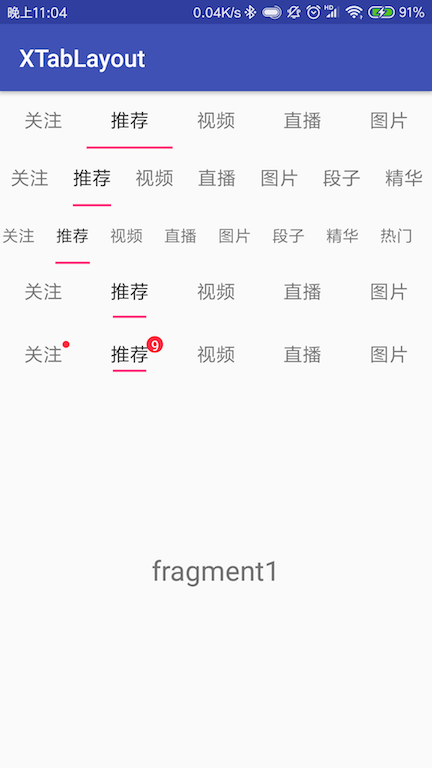
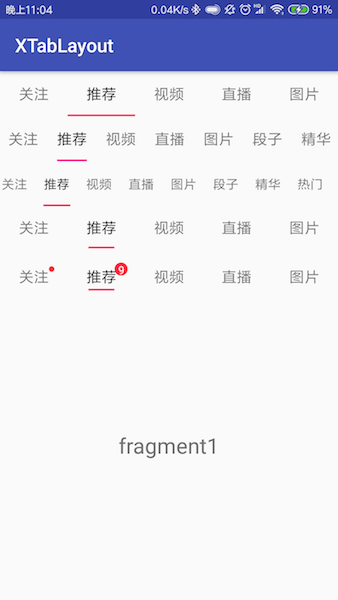
fix:调整README 图片大小

diff --git a/README.md b/README.md
@@ -10,7 +10,7 @@
 能够自定义TabLayout宽度的效果图：
 
 
-![](https://raw.githubusercontent.com/JasonGaoH/XTabLayout/master/gif/xtablayout_num.png)
+![](./gif/xtablayout_num.png)
 
 - 添加x_tabIndicatorWidth来支持TabLayout的Indicator的width的自定义，默认宽度28dp
 - 添加x_tabIndicatorAnimation来控制是否支持类似微博的导航条动效，默认false不支持
